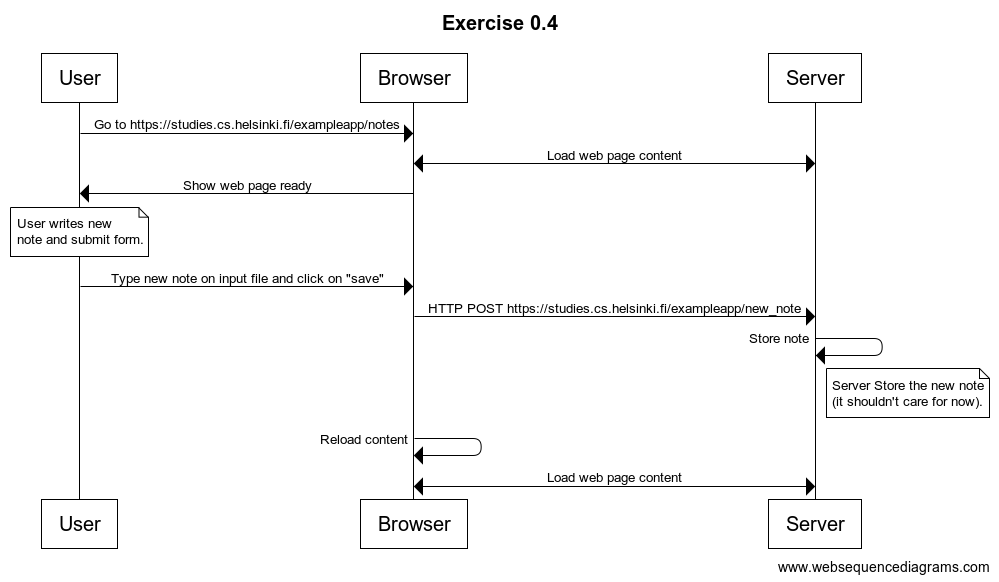
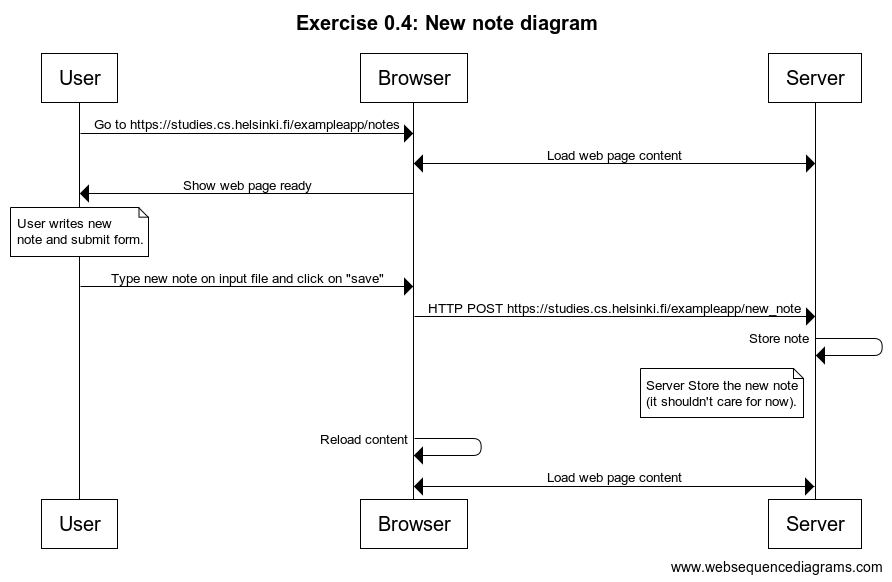
part 0, exercise # 0.4 rocks:rocket: (updated)

diff --git a/part0/exercise0.4.md b/part0/exercise0.4.md
@@ -4,27 +4,35 @@
 
 This is my own response of this exercise using sequence diagram, bout I reuse diagram used by course authors to make shorter answer. So I use messages named `Load  web page content` it represents all steps of authors' diagram. I know this isn't the most fidelity process, but I think is a resume of principal events.
 
+## **Diagram.**
+
 ![Alt text](img/Exercise0.4.png)
 
 ## **Diagram code.**
 
 ```
-title Exercise 0.4
+title Exercise 0.4: New note diagram
 
 User->Browser: Go to https://studies.cs.helsinki.fi/exampleapp/notes
 Server<->Browser: Load web page content
 Browser->User: Show web page ready
-note over User: User writes new\nnote and submit form.
+note over User:
+User writes new
+note and submit form.
+end note
 User->Browser: Type new note on input file and click on "save"
 Browser->Server: HTTP POST https://studies.cs.helsinki.fi/exampleapp/new_note
 Server->Server: Store note
-note right of Server: Server Store the new note\n(it shouldn't care for now).
+note left of Server:
+Server Store the new note
+(it shouldn't care for now).
+end note
 Browser->Browser: Reload content
 Server<->Browser: Load web page content
-
 ```
 
 ## **Load web page content.**
 
 This is all what happens in `Load web page content` message.
+
 ![Alt text](img/FullStackOpenSequenceDiagram.png)
